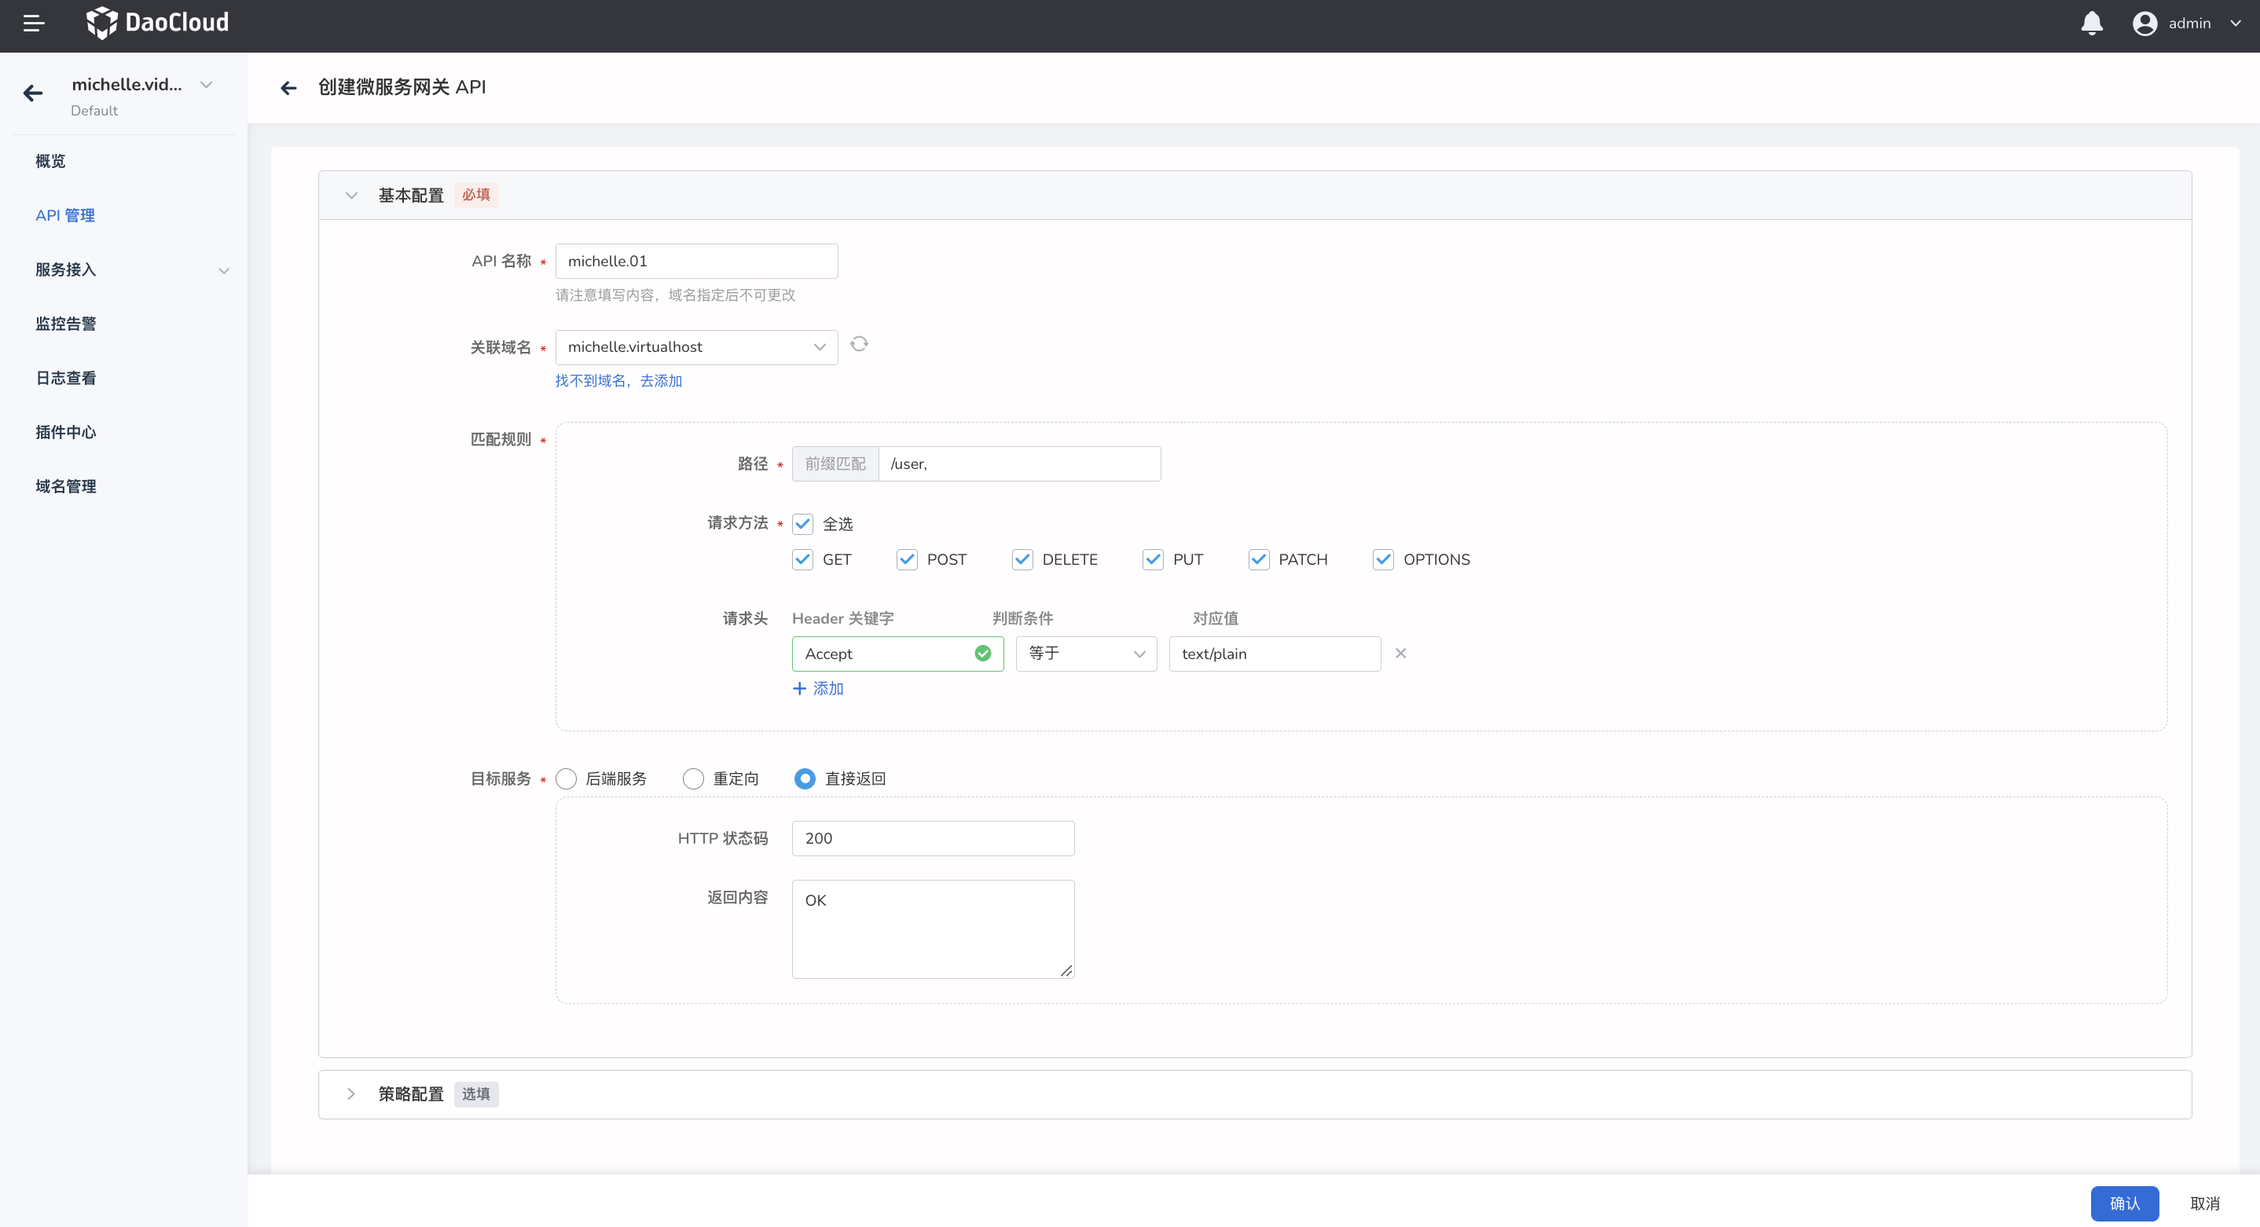
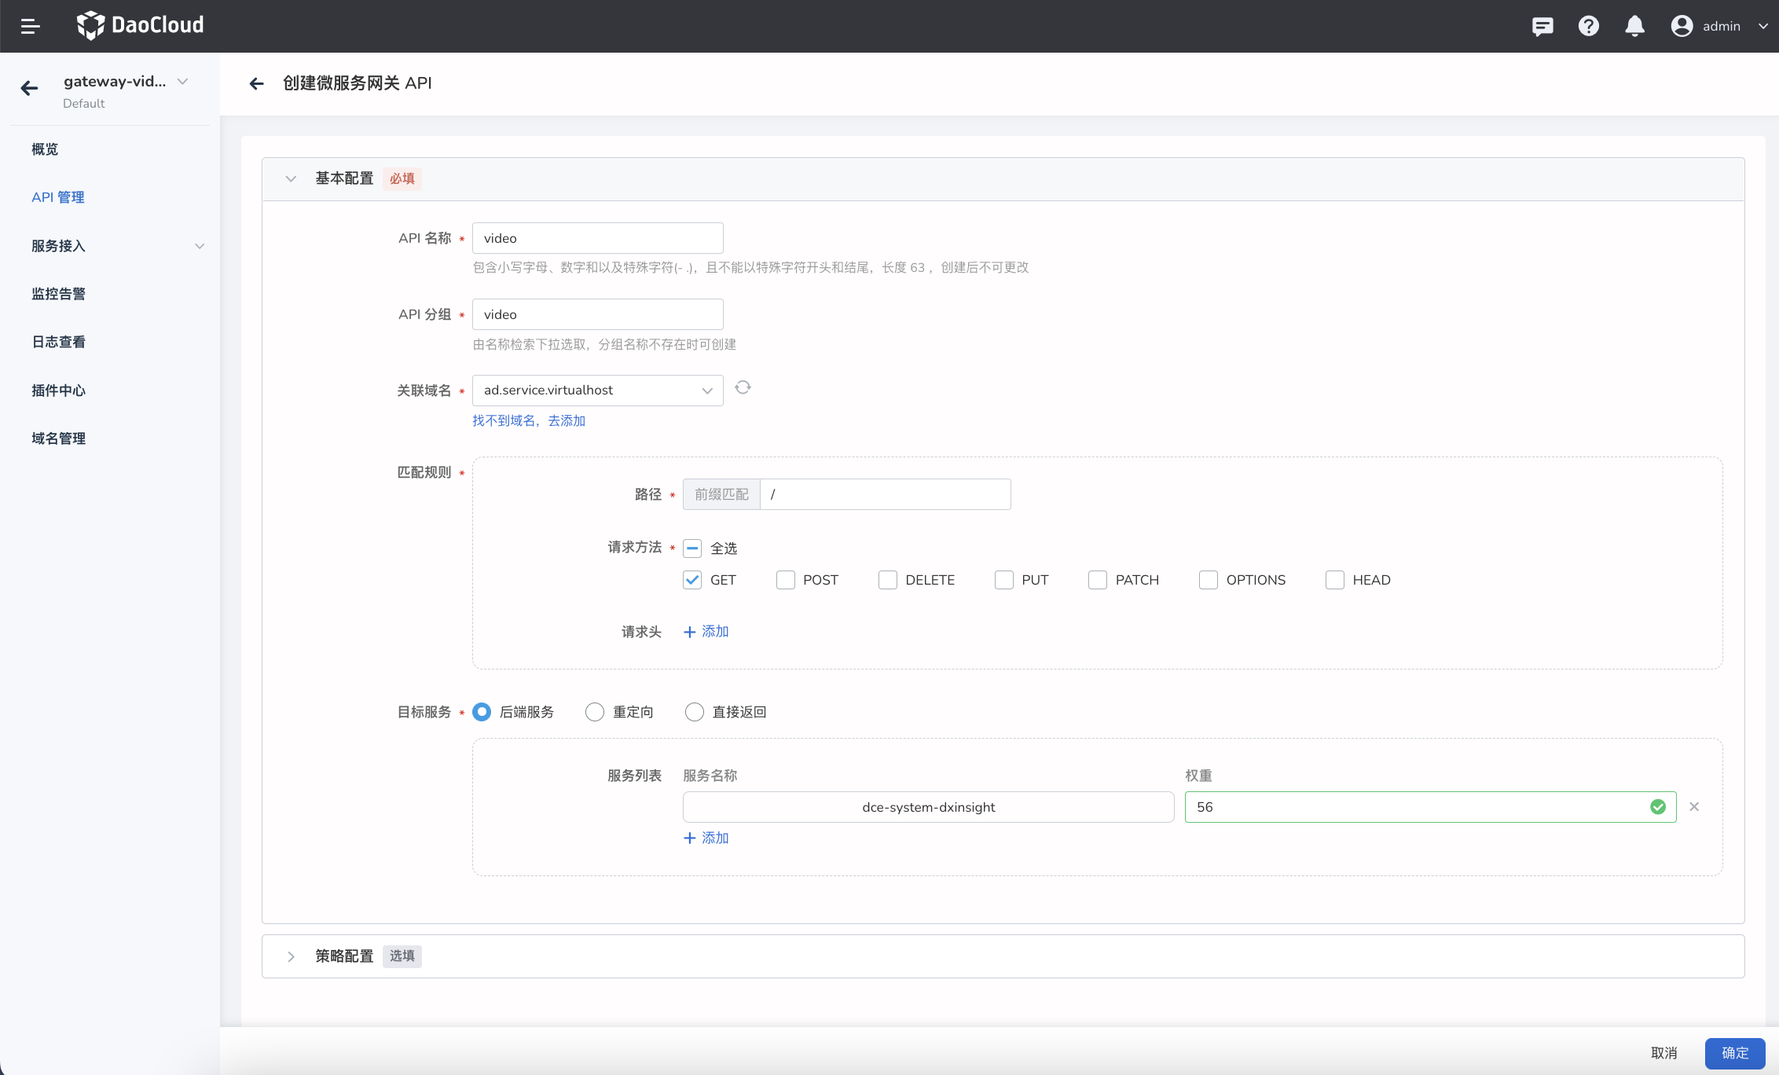
skoala: update docs about api

diff --git a/docs/zh/docs/skoala/ms-gateway/api/api-policy.md b/docs/zh/docs/skoala/ms-gateway/api/api-policy.md
@@ -1,99 +1,134 @@
-# 配置 API 策略
+# API 策略配置
+
+DCE 5.0 微服务网关支持九种 API 策略：负载均衡、路径改写、超时配置、重试机制、请求头重写、响应头重写、Websocket、本地限流、健康检查。可以单独使用某一种策略，也可以组合使用多种策略达到最佳实践。<!--有关 API 策略的组合配置，参考[API 策略配置最佳实践]()-->
 
 有两种方式可以配置 API 策略：
 
-- 在创建 API 的过程中设置策略
-
-    ![创建中配置策略](imgs/api-policy/config-during-create.png)
-
+- 在创建 API 的过程中设置策略，参考[添加 API](manage-api.md#添加-api)。
 - 在 API 创建完成后通过[更新 API 策略配置](manage-api.md#更新-api)进行调整。
 
-当前支持的策略配置如下，根据业务需要自行配置即可：
+**每一项策略的配置说明如下**:
+
+**视频教程**：[API 策略的高级配置](../../../videos/skoala.md#api-策略的高级配置1)
 
 ## 负载均衡
 
-当后端服务配置为多服务时，可以根据不同的细分规则实现负载均衡。
-
-![负载均衡](imgs/api-policy/load-balancer.png)
-
-- 轮询
-  
-    默认的负载均衡策略，网关会按顺序将请求依次分发到后端服务。此规则可以在流量较小时保障平均分配。
+当 API 的目标后端服务为多实例服务时，可以通过负载均衡策略控制流量分发，根据业务场景调整不同服务的实例接收到的流量。
 
 - 随机
   
-    选择随机规则时，网关会随机将请求分发给后端的任一服务。在流量较小时，部分后端服务可能会负载较多。
+    默认的负载均衡策略。选择随机规则时，网关会将请求随机分发给后端服务的任意实例。在流量较小时，部分后端服务可能会负载较多。效果参考下图：
+
+    ![负载均衡](imgs/lb-random.png)
+
+- 轮询
+  
+    向后端服务的所有实例轮流分发请求，各个服务实例接收到的请求数基本相近。此规则可以在流量较小时保障流量的平均分配。效果参考下图：
+
+    ![负载均衡](imgs/lb-rc.png)
 
 - 权重
   
-    选择根据权重进行路由分配时，会根据 API 配置中多个后端服务的权重数值来分发请求。权重数值越大，优先级越高，承担的流量也相对较多。
+    根据 API 目标后端服务的权重分发流量，权重数值越大，优先级越高，承担的流量也相对较多。服务权重的配置入口见下图：
+
+    ![负载均衡](imgs/lb-weight.png)
 
 - Cookie
   
-    选择根据 Cookie 进行分配时，网关会将来源请求头中属于相同 Cookie 的流量分发到固定的后端服务商，这在后端服务会根据 Cookie 进行不同响应处理时有效
+    将来源请求头中属于相同 Cookie 的流量分发到固定的后端服务实例，前提是后端服务能够根据 Cookie 做出不同的响应处理。
 
 - 请求 Hash
   
-  选择请求 Hash 时，可以通过一些高级策略来进负载均衡分配。当前支持的 Hash 策略为：IP、请求参数。
+    选择请求 Hash 时，可以通过一些高级策略来进负载均衡分配。当前支持的 Hash 策略为：IP、请求参数。
+
+    ![负载均衡](imgs/lb.png)
 
 ## 路径改写
 
-当对外暴露的 API 路径与后端服务提供的路径不一致时可以配置路径改写功能。当启用此功能时，必须配置正确的重写路径，网关会将外部请求流量转发到重写后的路径。
+如果对外暴露的 API 路径与后端服务提供的路径不一致，可以改写 API 路径使其与后端服务的路径一致，确保服务的正常访问。
+启用路径改写后，网关会将外部请求流量转发到重写后的路径。
 
-![路径该写](imgs/api-policy/path-rewrite.png)
+注意：**需要确保重写的路径是真实存在的，并且路径正确，以 “/” 开头**。
 
-## 超时重试
+![路径改写](imgs/rewrite.png)
 
-此策略可以控制请求响应超时的最大时长，减少异常处理导致的阻塞问题，支持的超时时长类型为：
+## 超时配置
 
-- ms 毫秒
-- s 秒
+设置请求响应的最大时长，如果超出所设置的最大时长，则直接请求失败。超时时长支持数值类型为 >=1 的整数值，时间单位为“秒（s）”。
 
-支持数值类型为 >=1 的整数值。
+超时配置默认处于关闭状态，开启后必须配置超时时长。开启超时配置有助于减少异常处理导致的阻塞问题。
 
-![超时重试](imgs/api-policy/timeout-retry.png)
+![超时](imgs/timeout.png)
 
-## Header 改写
+## 重试机制
 
-此策略可以实现对来源请求的 Header 参数处理，目前支持的方式基本包含了 Header 参数调整的全部策略。
+微服务网关的 API 支持配置非常丰富的重试机制。启用重试机制后，网关会在请求失败时自动重新尝试访问。达到重试超时时间之后自动触发再次重试，当重试次数达到配置的最大重试次数时停止重试。重试机制默认处于关闭状态，开启后必须配置重试次数和重试超时时长。
 
-目前支持对特定的请求/响应 Header 的关键字进行如下操作：
+支持通过自定义配置选择不同的重试条件，自定义重试状态码等。
+
+### HTTP 重试
+
+- 5XX 响应错误：后端服务响应 HTTP status_code 大于 500 时进行重试。
+- 网关错误：当响应结果为网关错误提示时，自动进行重试。
+- 请求重置：当响应结果为请求重置消息时，自动进行重试。
+- 连接失败：当响应结果为网络连接失败的返回时，自动进行重试。
+- 拒绝流：当响应结果为后端服务将请求标记为拒绝处理时，自动进行重试。
+- 指定状态码：当后端服务响应 HTTP status_code 为特定状态码时自动进行重试，支持配置特定的状态码。
+
+### GRPC 重试
+
+- 请求被取消：当响应结果为GRPC 请求被后端服务取消时自动进行重试。
+- 响应超时： 当后端服务响应超时，自动进行重试。
+- 服务内部错误：当响应结果为服务内部错误时，自动进行重试。
+- 资源不足：当响应结果为资源不足时，自动进行重试。
+- 服务不可用时：当响应结果为后端不可用时，自动进行重试。
+
+    ![重试](imgs/retry.png)
+
+## 请求头/响应头改写
+
+支持添加、修改、删除请求头和响应头及其对应的值。
   
-- 增加关键字，支持增加对应的关键字和值
-- 修改关键字，支持通过关键字来选定并赋予新值
-- 删除关键字，支持删除特定的关键字
+- 增加请求头/响应头：使用`设置`动作，填写新的关键字和新值。
+- 修改请求头/响应头：使用`设置`动作，填写已有的关键字并赋予新值。
+- 移除请求头/响应头，使用`移除`动作，只填写需要移除的关键字即可，无需填写对应的值。
 
-![header 改写](imgs/api-policy/header-rewrite.png)
+    ![header 改写](imgs/header-rewrite.png)
 
 ## Websocket
 
-启用此配置可以为端口启用 Websocket 通信能力。
+WebSocket 是一种在单个 TCP 连接上进行全双工通信的协议。WebSocket 使得客户端和服务器之间的数据交换变得更加简单，允许服务端主动向客户端推送数据。在 WebSocket API 中，浏览器和服务器只需要完成一次握手，两者之间就直接可以创建持久性的连接，并进行双向数据传输。
+
+启用 Websocket 之后支持通过 Websocket 协议访问 API 的后端服务。
+
+![websocket](imgs/websocket.png)
 
 ## 本地限流
 
-微服务网关支持丰富的限流能力，支持在 API 层级启用本地限流能力。基础配置包括请求速率和超时时长两项参数，通过自定义配置可以设置允许溢出速率、限制返回码等更多参数。
+微服务网关支持丰富的限流能力，支持在 API 层级启用本地限流能力
 
->除了在 API 层级的本地限流能力之外，还可以通过[域名管理](../domain/manage-domain.md)针对整个域名进行限流处理。当 API 与域名同时配置限流策略时，以 API 层级的限流策略为准。
+- 请求速率：时间窗口（秒/分/时）内允许的最大请求速率，例如每分钟最多允许 3 次请求。支持输入 >=1 的整数。
+- 允许溢出速率：达到预设的请求速率时，仍旧允许额外处理一部分请求，适用于业务突增的流量高峰时段。支持输入 >=1 的整数。
+- 限制返回码：默认返回码为 429，表示请求次数过多。可参考 envoy 官方文档了解[本地限流支持的状态码](https://github.com/envoyproxy/envoy/blob/v1.23.1/api/envoy/type/v3/http_status.proto#L137)。
+- Header 关键字：默认为空，可根据需求自行设置。
 
-- `请求速率 (Max)`
+    ![本地限流](imgs/ratelimit.png)
 
-    允许的超时时长内允许的最大请求速率,支持输入 >=1 的整数
-  
-- `超时时长`
+!!! info
 
-    支持的时间单位包括：秒/分钟/小时/天
+    除了在 API 层级的本地限流能力之外，还可以通过[域名管理](../domain/manage-domain.md)针对整个域名进行限流处理。当 API 与域名同时配置限流策略时，以 API 层级的限流策略为准。
 
-- `允许溢出速率`
-  
-    当达到预设的最大请求速率时，仍旧允许一部分请求处理，非常适用于业务突增的流量高峰时段
-    支持输入 >=1 的整数
+## 健康检查
 
-- `限制返回`
-  
-    默认返回码为 429
+通过设置健康检查地址，可以有效保证当后端服务异常时，网关自动进行负载均衡调整。对不健康的后端服务进行标记，停止向该服务分发流量。当后端服务恢复并通过设定的健康检查条件后，自动恢复流量分发。
 
-- `Header 关键字`
+- 健康检查路径：以 “/” 开头，并且全部后端服务的所有实例都应提供相同的健康检查接口。
+- 特定健康检查主机：配置主机地址后，仅对该主机进行健康检查。
+- 检查超时时间：健康检查超过配置时长时，标记健康检查失败。
+标记健康/不健康检查次数：连续 N 次检查服务实例，每次的状态都为健康/不健康时才将服务标记为健康/不健康。
+- 检查时间间隔：每次健康检查的时间间隔，时间单位为“秒”，例如每隔 10 秒进行一次健康检查。
+- 检查超时时间：健康检查的最大超时时长，当健康检查超过配置的时长时，直接标记健康检查失败。
+- 标记健康检查次数：连续检查 N 次并且每次结果都是健康时，才将服务实例标记为健康状态；当服务实例被标记为健康状态后，请求流量将会自动分发到该服务实例。
+- 标记不健康检查次数：连续检查 N 次并且每次结果都是不健康时，就将服务实例标记为不健康状态，当服务实例被标记为不健康时，停止向该实例分发请求流量。
 
-    默认为空，可根据需求自行设置
-
-![本地限流](imgs/api-policy/rate-limit.png)
+    ![健康检查](imgs/healthcheck.png)

diff --git a/docs/zh/docs/skoala/ms-gateway/api/manage-api.md b/docs/zh/docs/skoala/ms-gateway/api/manage-api.md
@@ -2,34 +2,57 @@
 
 微服务网关支持对网关实例的 API 进行全生命周期管理，包括 API 的添加、更新和删除。
 
+## 前提条件
+
+- 有可选的域名，可参考[域名管理](../domain/manage-domain.md)创建域名。
+- 如果 API 的目标服务为后端服务，则需要确保有可选的后端服务，可参考[服务管理](../service/manage-service.md)通过手动或自动方式接入服务。
+
 ## 添加 API
 
 创建 API 的步骤如下：
 
-1. 点击网关名称进入网关实例，在左侧导航栏点击 `API 管理`，然后在页面右上角点击 `添加 API`，进入 API 的创建页面。
+1. 点击网关名称进入网关概览页面，然后在左侧导航栏点击 `API 管理`，在页面右上角点击 `添加 API`，进入 API 的创建页面。
 
     ![进入添加页面](imgs/add-api-01.png)
 
-2. 填写配置信息
+2. 填写配置信息。
 
-    填写配置信息时需要注意：
+    配置分为基本配置和策略配置两部分。填写基本配置信息时需要注意：
 
     - API 名称：包含小写字母、数字和以及特殊字符(- .)，不能以特殊字符开头和结尾。
-    - 关联域名：API 访问的域名。API 配置完成并上线后，可以通过域名 + 路径的方式访问 API。找不到域名时可以添加新的域名。有关添加域名的详细信息，请参见[管理域名](../domain/manage-domain.md)
-    - 匹配规则：只允许符合该规则的请求通过。如果设置了多条规则，需要同时满足所有规则才能放行。
-    - 目标服务：请求通过网关后，将请求发送到后端服务，或者重定向，或者直接返回 HTTP 状态码。
+    - API 分组：选择 API 所属的分组组名。如果输入不存在的分组名称，则自动创建一个新的分组。
+    - 关联域名：填写关联域名后，可以通过`域名 + 端口号`的方式访问 API。找不到域名时可以添加新域名，可参见[管理域名](../domain/manage-domain.md)。
+    - 匹配规则：只允许符合该规则的请求通过。如果设置了多条规则，需要同时满足所有规则才能放行。如果添加了请求头，则需要在访问该 API 时添加相应的请求头。
+    - 目标服务：选择将请求直接发送到后端服务，或者重定向到其他服务，或者直接返回 HTTP 状态码。
+    - 如果选择后端服务，则需要配置权重。权重越大，网关向其分发的流量就越多。
 
         ![配置信息](imgs/config.png)
 
-3. 在页面右下角点击`确认`
+    支持九种 API 策略：负载均衡、路径改写、超时配置、重试机制、请求头重写、响应头重写、Websocket、本地限流、健康检查。有关各项策略的配置说明，可参考[API 策略配置](api-policy.md)。
 
-    点击`确认`后，如果所有配置都正常，右上角会弹出添加成功的提示信息。可以在 `API 管理`页面看到新建的 API。
+    ![配置策略](imgs/policy01.png)
+
+3. 在页面右下角点击`确定`。
+
+    点击`确定`后，如果所有配置都正常，右上角会弹出`创建网关 API 成功`的提示信息。可以在 `API 管理`页面查看新建的 API。
 
     ![创建成功](imgs/result.png)
 
+4. API 上线
+
+    API 创建成功后，默认处于下线状态，此时无法访问。需要将 API 调整为上线，才能正常访问。API 上线有两种方式。
+
+    - 在 API在 `API 管理`页面找到需要更新的 API，在该 API 的右侧点击 **`ⵗ`** 选择`API 上线`。
+
+       ![API 上线](imgs/online.png)
+
+    - 点击 API 名称进入 API 详情页，在页面右上角点击 **`ⵗ`** 并选择`API 上线`。
+
+        ![API 上线](imgs/online1.png)
+
 ## 更新 API
 
-可以通过两种方式更新 API 的基础配置或策略配置。
+可以通过两种方式更新 API 的基础配置和策略配置。
 
 - 在 `API 管理`页面找到需要更新的 API，在该 API 的右侧点击 **`ⵗ`** 选择`修改基础配置`或`修改策略`。
 
@@ -51,6 +74,6 @@
 
     ![在列表页删除](imgs/delete-api-1.png)
 
-- 点击 API 名称进入 API 详情页，在页面右上角点击 **`ⵈ`** 操并选择`移除`。
+- 点击 API 名称进入 API 详情页，在页面右上角点击 **`ⵗ`** 操并选择`移除`。
 
     ![在详情页删除](imgs/delete-api-2.png)

diff --git a/docs/zh/docs/skoala/registry/managed/servicelist/intro.md b/docs/zh/docs/skoala/registry/managed/servicelist/intro.md
@@ -8,6 +8,6 @@
 
 保护阈值：保护阈值是 0 到 1 之间的一个浮点数，表示集群中健康实例占比的最小值。如果实际健康实例的占比小于或等于该阈值时，就会触发阈值保护，即无论实例 (Instance) 是否健康，都会将这个实例 (Instance) 返回给客户端。阈值保护主要是为了防止故障实例过多时所有流量全部流入剩余实例，造成流量压力将剩余实例被压垮形成雪崩效应。
 
-链路追踪：通过[应用工作台](../../../../amamba/01ProductBrief/WhatisAmamba.md)创建服务时，可以选择否接入 [OpenTelemetry](https://opentelemetry.io/docs/concepts/what-is-opentelemetry/)链路追踪组件。如果服务是通过其他途经注册到注册中心的，则可以参考[使用 OTel SDK 为应用程序暴露指标](../../../../insight/06UserGuide/01quickstart/otel/meter.md)手动接入该组件。建议接入，以便获取完整的可观测信息。
+链路追踪：通过[应用工作台](../../../../amamba/01ProductBrief/WhatisAmamba.md)创建服务时，可以选择否接入 [OpenTelemetry](https://opentelemetry.io/docs/concepts/what-is-opentelemetry/) 链路追踪组件。如果服务是通过其他途经注册到注册中心的，则可以参考[使用 OTel SDK 为应用程序暴露指标](../../../../insight/06UserGuide/01quickstart/otel/meter.md)手动接入该组件。建议接入，以便获取完整的可观测信息。
 
 是否可以治理：判断该微服务是否满足治理条件，例如是否开启了治理插件、是否进行了容器化、是否被网格纳管、是否通过[应用工作台](../../../../amamba/01ProductBrief/WhatisAmamba.md)创建的等一系列要求<!--详细要求待后续完善-->。

diff --git a/docs/zh/docs/videos/skoala.md b/docs/zh/docs/videos/skoala.md
@@ -10,6 +10,8 @@
 
 ## API 策略的高级配置（1）
 
+文档地址：[API 策略配置](../../skoala/../docs/skoala/ms-gateway/api/api-policy.md)
+
 <div class="responsive-video-container">
 <iframe src="https://harbor-test2.cn-sh2.ufileos.com/docs/videos/apipolicy1.mp4" scrolling="no" border="0" frameborder="no" framespacing="0" allowfullscreen="true"> </iframe>
 </div>

diff --git a/docs/zh/docs/skoala/ms-gateway/service/manage-service.md b/docs/zh/docs/skoala/ms-gateway/service/manage-service.md
@@ -1,4 +1,4 @@
-# 管理服务
+# 服务管理
 
 微服务网关支持通过手动接入和自动发现两种方式添加服务。服务添加之后，可以作为 API 的目标服务。
 
